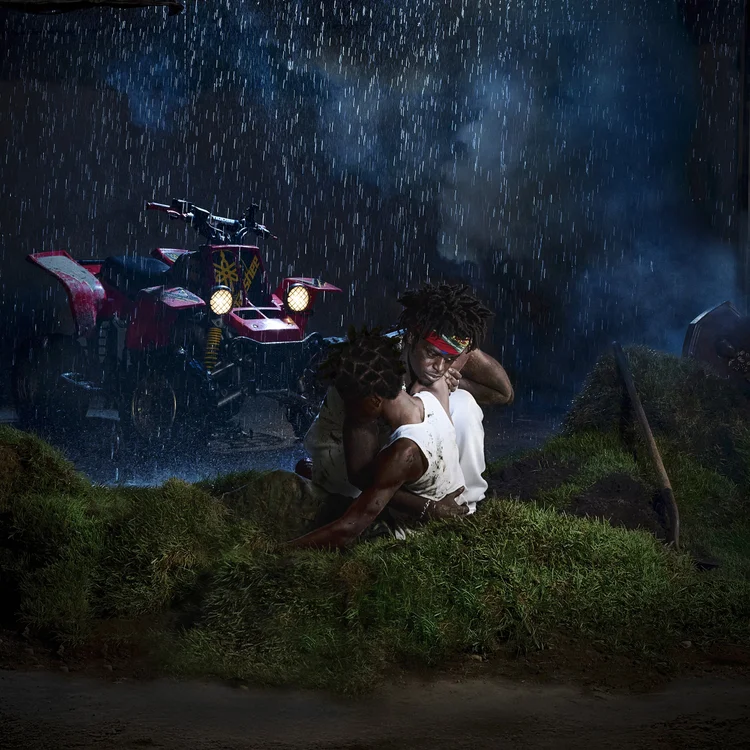
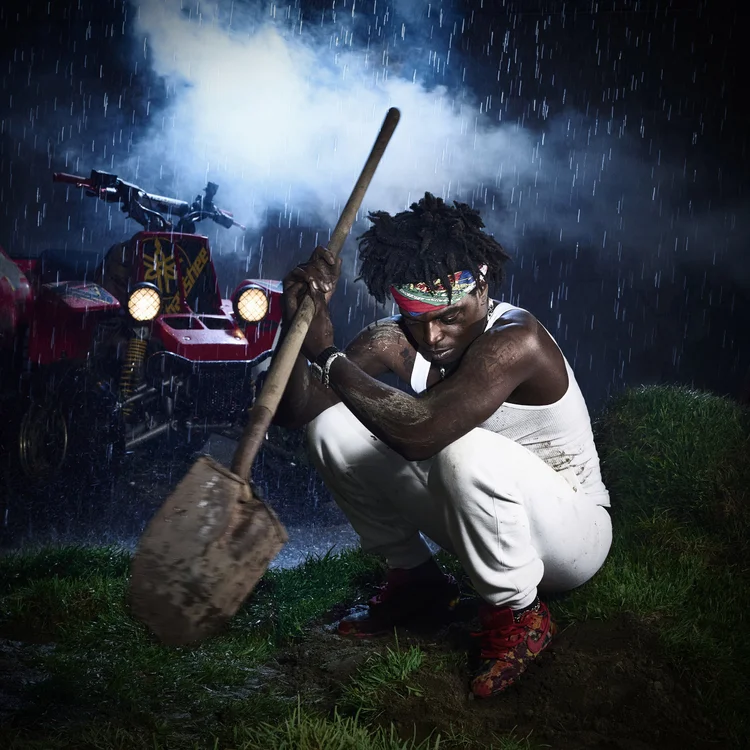
PAZL: Kodak thumbnail is the Just Getting Started cover

diff --git a/pazl/work.html b/pazl/work.html
@@ -159,8 +159,8 @@
           <a class="ul" href="work/kodak-black.html">View project</a>
         </div>
         <div class="drop__spine" aria-hidden="true"></div>
-        <a class="piece piece--drop" href="work/kodak-black.html" data-num="10" data-cat="Photography" data-released="2025" data-title="Just Getting Started" data-desc="Kodak Black · album art, production &amp; press images" aria-label="Just Getting Started, open">
-          <span class="piece__depth"></span><span class="piece__clip"><img src="assets/img/kodak-rain.webp" width="1000" height="1250" alt="Kodak Black on a four-wheeler in the rain" loading="lazy"></span>
+        <a class="piece piece--drop" href="work/kodak-black.html" data-num="10" data-cat="Photography" data-released="2025" data-title="Just Getting Started" data-desc="Kodak Black · album art, production &amp; press images" aria-label="Just Getting Started, open" style="--focus: 50% 50%; --zoom: 1.08">
+          <span class="piece__depth"></span><span class="piece__clip"><img src="assets/img/kodak-cover.webp" width="750" height="750" alt="Just Getting Started cover: Kodak Black crouched with a shovel in the rain" loading="lazy"></span>
         </a>
       </li>
       <li class="drop">
